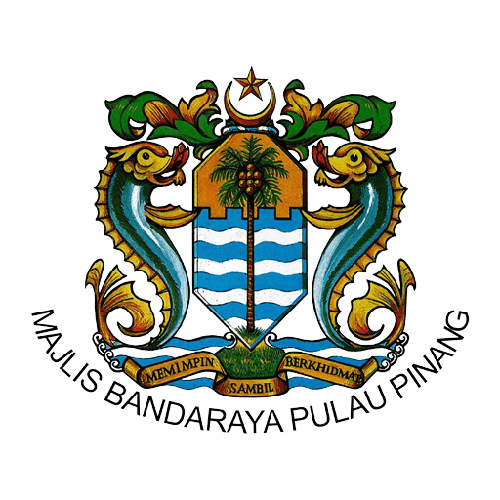
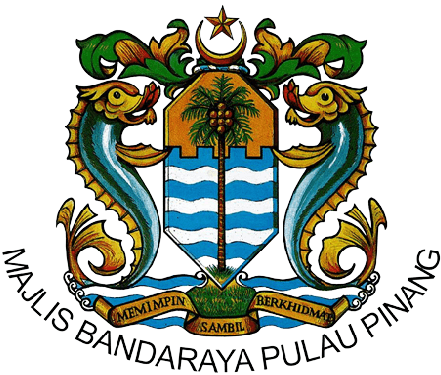
final touch up

diff --git a/layout/navbar.php b/layout/navbar.php
@@ -4,15 +4,14 @@
             Nav header start
         ***********************************-->
 <div class="nav-header">
+            <div style="text-align: center;">
     <div class="brand-logo">
-        <a href="./index.php">
-            <b class="logo-abbr"><img src="../images/logo.png" alt=""> </b>
-            <span class="logo-compact"><img src="../images/logo-compact.png" alt=""></span>
+        <a href="../folder-dashboard/dashboard.php">
             <span class="brand-title">
-                <img src="" alt="">
+                <img src="../images/MBPP.png" class="center" style="width: 55%; height: 55%; transform: translateY(-35px);" alt="">
             </span>
         </a>
-    </div>
+    </div></div>
 </div>
 <!--**********************************
             Nav header end
@@ -52,7 +51,7 @@
                             <path fill-rule="evenodd" d="M0 8a8 8 0 1 1 16 0A8 8 0 0 1 0 8zm8-7a7 7 0 0 0-5.468 11.37C3.242 11.226 4.805 10 8 10s4.757 1.225 5.468 2.37A7 7 0 0 0 8 1z" />
                         </svg>
                         <!-- <img src="../images/user/1.png" height="40" width="40" alt=""> -->
-                        <span class="span-name">Aisyah</span>
+                        <span class="span-name"><? echo $_SESSION['username']; ?></span>
                     </div>
                     <div class="drop-down dropdown-profile animated fadeIn dropdown-menu">
                         <div class="dropdown-content-body">

diff --git a/authentication/login.php b/authentication/login.php
@@ -15,6 +15,7 @@ if ($result && mysqli_num_rows($result) > 0) {
         session_start(); //start the session 
         $_SESSION["Login"] = "YES";
         $_SESSION['user'] = $user;
+        $_SESSION['username'] = $user['s_name'];
         $_SESSION['role'] = $user['role'];
         header('Location: ../folder-user/profile.php');
         exit;

diff --git a/folder-dashboard/dashboard.php b/folder-dashboard/dashboard.php
@@ -1,5 +1,5 @@
 <?php
-
+session_start();
 if (isset($_SESSION['user'])) {
 // Set the content file to include
 $content = "../layout/home.php";
